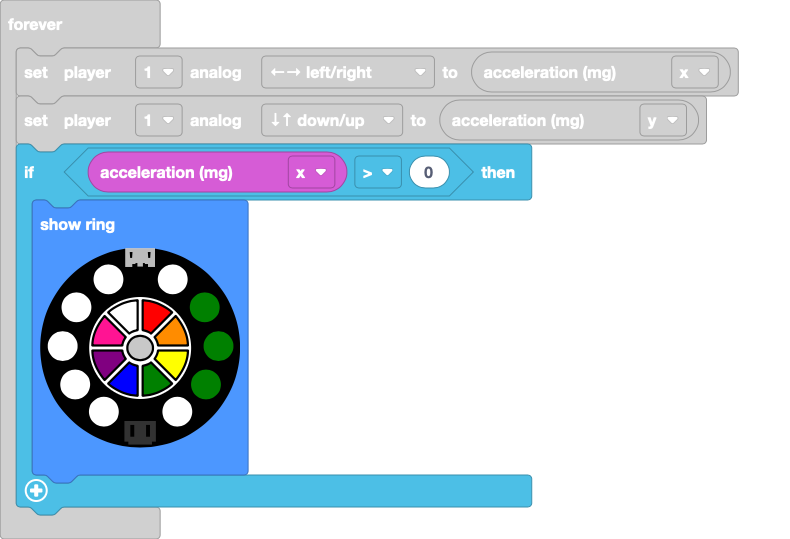
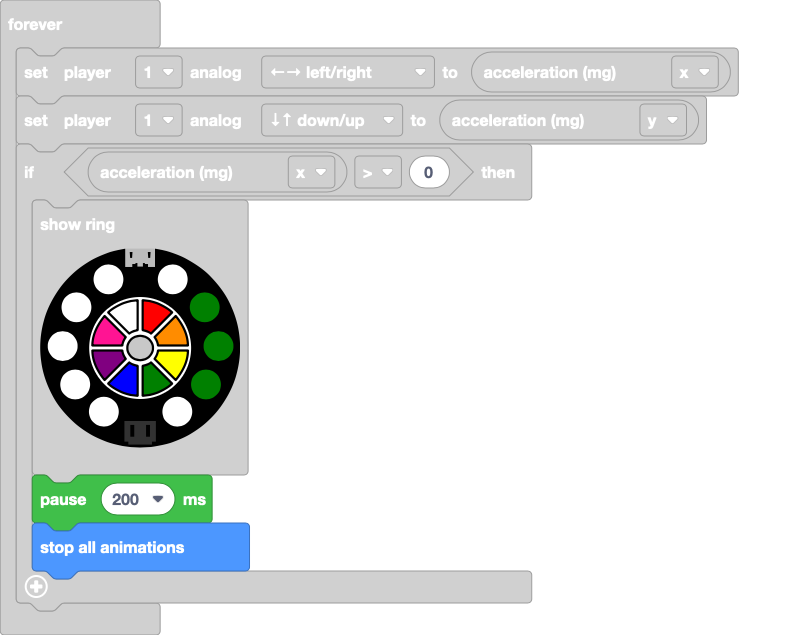
Update main.blocks, main.ts

Changed region(s): [[0.0, 0.0594, 0.9418, 0.9796], [0.0, 0.0297, 0.0911, 0.0594]]

diff --git a/main.ts b/main.ts
@@ -9,5 +9,7 @@ forever(function () {
         light.showRing(
         `white white white white white white green green green white`
         )
+        pause(200)
+        light.stopAllAnimations()
     }
 })
